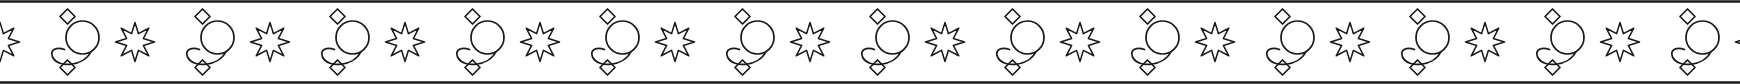
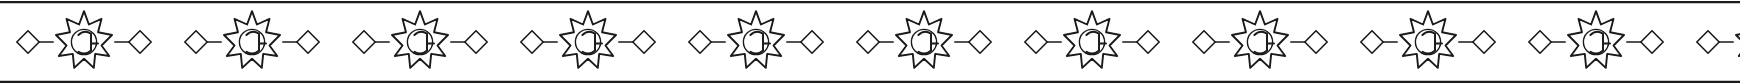
Musterauswahl: 3 Varianten durch nutzerbereitgestellte Designs ersetzen
Die zuvor selbst entworfenen Varianten "Sechseck", "Kalligrafie" und
"Verlauf" haben dem Nutzer nicht gefallen. Er hat eigene SVG-Entwürfe
geliefert - übernommen als "Halbmond", "Kalligrafie" (neu) und "Kette".

Dabei einen echten Konstruktionsfehler in einem der Entwürfe gefunden und
behoben: eine Mondsichel als zwei separate, sich überlappende volle
Kreisbögen zu zeichnen ergibt bei fill="none" nur zwei offene Ringe, keine
Sichel - eine Mondsichel muss als EIN geschlossener Pfad aus zwei
gegenläufigen Bögen gezeichnet werden (wie im zweiten, korrekt
funktionierenden Entwurf des Nutzers). Für "Kette" (basierend auf dem
fehlerhaften ersten Entwurf) dieselbe korrekte Konstruktion übernommen,
sonst aber Rauten-Kette und Akzente wie vom Nutzer entworfen beibehalten.

Die nicht mehr genutzte "Verlauf"-Architektur (nicht kachelbares,
direkt skaliertes Motiv) komplett entfernt, da alle vier Varianten jetzt
echte Kacheln sind - vereinfacht Web-/PDF-Renderer entsprechend.

Claude-Session: https://claude.ai/code/session_019vMJotETzTJGAaB8Uzutz7

diff --git a/lib/patternStrip.ts b/lib/patternStrip.ts
@@ -2,22 +2,18 @@ import { MusterVariante } from "@/lib/types";
 
 /**
  * Islamische Musterelemente: vier auswählbare, horizontal durchlaufende Zierstreifen im
- * Girih-Stil (wie klassische maurische/Alhambra-Randmuster). Drei davon ("sterne", "sechseck",
- * "kalligrafie") sind echte Kachelmuster - eine Kachel wird so oft nebeneinandergesetzt, wie in
- * die verfügbare Breite passt, ohne Verzerrung. "verlauf" ist kein Kachelmuster, sondern ein
- * einzelnes, symmetrisches Motiv, das in der Mitte am dichtesten ist und zu beiden Rändern hin
- * an Dichte verliert, bis es spitz ausläuft - skaliert direkt (ohne Wiederholung) auf die volle
- * Breite.
+ * Girih-Stil (wie klassische maurische/Alhambra-Randmuster). Jede Variante ist ein echtes
+ * Kachelmuster - eine Kachel wird so oft nebeneinandergesetzt, wie in die verfügbare Breite
+ * passt, ohne Verzerrung.
  */
 
 export interface MusterPfadGruppe {
-  /** Strichstärke im Kachel-/Motiv-Koordinatensystem. */
+  /** Strichstärke im Kachel-Koordinatensystem. */
   strichstaerke: number;
   pfade: string[];
 }
 
-export interface KachelMusterDefinition {
-  art: "kachel";
+export interface MusterDefinition {
   kachelBreite: number;
   kachelHoehe: number;
   /** Y-Koordinaten der Rahmenlinie oben/unten. */
@@ -26,26 +22,16 @@ export interface KachelMusterDefinition {
   gruppen: MusterPfadGruppe[];
 }
 
-export interface VerlaufMusterDefinition {
-  art: "verlauf";
-  breite: number;
-  hoehe: number;
-  gruppen: MusterPfadGruppe[];
-}
-
-export type MusterDefinition = KachelMusterDefinition | VerlaufMusterDefinition;
-
 export const MUSTER_LABEL: Record<MusterVariante, string> = {
   sterne: "Sterne",
-  sechseck: "Sechseck",
+  halbmond: "Halbmond",
   kalligrafie: "Kalligrafie",
-  verlauf: "Verlauf",
+  kette: "Kette",
 };
 
 export const MUSTER_DEFINITIONEN: Record<MusterVariante, MusterDefinition> = {
   // Achtzackiger Stern mit innerem Kern, ineinandergreifende Rauten-/Vieleck-Formen.
   sterne: {
-    art: "kachel",
     kachelBreite: 80,
     kachelHoehe: 56,
     rahmenY: [1, 55],
@@ -84,81 +70,84 @@ export const MUSTER_DEFINITIONEN: Record<MusterVariante, MusterDefinition> = {
       },
     ],
   },
-  // Längliche Sechseck-Kachel mit eingeschriebenem sechszackigen Stern.
-  sechseck: {
-    art: "kachel",
-    kachelBreite: 90,
-    kachelHoehe: 56,
-    rahmenY: [1, 55],
-    rahmenStrichstaerke: 1.6,
+  // Zwei Halbmonde flankieren eine Raute - der Halbmond ist als ein einziger, geschlossener
+  // Pfad aus zwei gegenläufigen Bögen gezeichnet (nicht als zwei sich überlappende Kreise -
+  // das würde bei fill="none" nur zwei offene Ringe statt einer Mondsichel ergeben).
+  halbmond: {
+    kachelBreite: 100,
+    kachelHoehe: 52,
+    rahmenY: [1.5, 50.5],
+    rahmenStrichstaerke: 1.5,
     gruppen: [
       {
-        strichstaerke: 1.15,
+        strichstaerke: 1.3,
         pfade: [
-          "M0,28 L18,10 L72,10 L90,28 L72,46 L18,46 Z",
-          "M18,5 L24,10 L18,15 L12,10 Z",
-          "M72,5 L78,10 L72,15 L66,10 Z",
-          "M18,41 L24,46 L18,51 L12,46 Z",
-          "M72,41 L78,46 L72,51 L66,46 Z",
+          "M22,14 A13,13 0 1,0 22,38 A9,9 0 1,1 22,14 Z",
+          "M78,14 A13,13 0 1,0 78,38 A9,9 0 1,1 78,14 Z",
         ],
       },
       {
-        strichstaerke: 1.0,
+        strichstaerke: 1.15,
         pfade: [
-          "M45,13 L48.5,21.94 L57.99,20.5 L52,28 L57.99,35.5 L48.5,34.06 L45,43 L41.5,34.06 L32.01,35.5 L38,28 L32.01,20.5 L41.5,21.94 Z",
-          "M45,18 L53.66,23 L53.66,33 L45,38 L36.34,33 L36.34,23 Z",
+          "M42,26 L52,15 L62,26 L52,37 Z",
+          "M52,20 L57,26 L52,32 L47,26 Z",
+          "M30,26 H42",
+          "M62,26 H70",
         ],
       },
     ],
   },
-  // Stilisiertes و (waw) im Wechsel mit einem achtzackigen Stern an der Kachelnaht.
+  // Stilisiertes arabisches و (waw) im Kern eines zwölfzackigen Sterns, flankiert von Rauten.
   kalligrafie: {
-    art: "kachel",
-    kachelBreite: 90,
-    kachelHoehe: 56,
-    rahmenY: [1, 55],
-    rahmenStrichstaerke: 1.6,
+    kachelBreite: 120,
+    kachelHoehe: 60,
+    rahmenY: [1.5, 58.5],
+    rahmenStrichstaerke: 1.55,
     gruppen: [
       {
-        strichstaerke: 1.15,
+        strichstaerke: 1.35,
         pfade: [
-          "M44,25 C44,18.9247 48.9247,14 55,14 C61.0753,14 66,18.9247 66,25 C66,31.0753 61.0753,36 55,36 C48.9247,36 44,31.0753 44,25 Z",
-          "M60.5,34.57 C56,44 39,46 35,38 C33,33 38,31 43,33",
-          "M45,6 L50,11 L45,16 L40,11 Z",
-          "M45,40 L50,45 L45,50 L40,45 Z",
+          "M60,8 L63.5,17.5 L72.5,13.5 L70,23 L80,25 L72.5,32.5 L78,40 L68,38.5 L67,48.5 L60,42 L53,48.5 L52,38.5 L42,40 L47.5,32.5 L40,25 L50,23 L47.5,13.5 L56.5,17.5 Z",
         ],
+      },
+      {
+        strichstaerke: 1.4,
+        pfade: ["M56,25 Q60,21 65,24 L65,36 Q61,40 56,37 M65,31 H70"],
       },
       {
         strichstaerke: 1.0,
-        pfade: [
-          "M0,15 L2.3,22.46 L9.19,18.81 L5.54,25.7 L13,28 L5.54,30.3 L9.19,37.19 L2.3,33.54 L0,41 L-2.3,33.54 L-9.19,37.19 L-5.54,30.3 L-13,28 L-5.54,25.7 L-9.19,18.81 L-2.3,22.46 Z",
-        ],
+        pfade: ["M51,30 A9,9 0 1,0 69,30 A9,9 0 1,0 51,30 Z"],
+      },
+      {
+        strichstaerke: 1.15,
+        pfade: ["M12,30 L20,22 L28,30 L20,38 Z", "M92,30 L100,22 L108,30 L100,38 Z"],
+      },
+      {
+        strichstaerke: 1.1,
+        pfade: ["M28,30 H38", "M82,30 H92"],
       },
     ],
   },
-  // Nicht kachelbar: ein Motiv, das in der Mitte am dichtesten ist und zu den (spitz
-  // zulaufenden) Rändern hin an Dichte verliert - skaliert direkt auf die volle Breite.
-  verlauf: {
-    art: "verlauf",
-    breite: 1000,
-    hoehe: 48,
+  // Halbmond (korrekt als ein Pfad aus zwei gegenläufigen Bögen), Rauten-Kette und kleine
+  // Rauten-Akzente, verbunden durch dünne Linien.
+  kette: {
+    kachelBreite: 100,
+    kachelHoehe: 52,
+    rahmenY: [1.5, 50.5],
+    rahmenStrichstaerke: 1.5,
     gruppen: [
       {
-        strichstaerke: 1.15,
+        strichstaerke: 1.25,
+        pfade: ["M20,15 A11,11 0 1,0 20,37 A7.5,7.5 0 1,1 20,15 Z", "M38,26 L48,16 L58,26 L48,36 Z"],
+      },
+      {
+        strichstaerke: 1.1,
         pfade: [
-          "M500,7 L503.06,16.61 L512.02,11.98 L507.39,20.94 L517,24 L507.39,27.06 L512.02,36.02 L503.06,31.39 L500,41 L496.94,31.39 L487.98,36.02 L492.61,27.06 L483,24 L492.61,20.94 L487.98,11.98 L496.94,16.61 Z",
-          "M500,10.5 L505,15.5 L500,20.5 L495,15.5 Z",
-          "M500,27.5 L505,32.5 L500,37.5 L495,32.5 Z",
-          "M465,16 L471,24 L465,32 L459,24 Z",
-          "M535,16 L541,24 L535,32 L529,24 Z",
-          "M445,16 L421.67,32 L398.33,16 L375,32",
-          "M555,16 L578.33,32 L601.67,16 L625,32",
-          "M340,11 L350,24 L340,37 L330,24 Z",
-          "M660,11 L670,24 L660,37 L650,24 Z",
-          "M250,18 L256,24 L250,30 L244,24 Z",
-          "M750,18 L756,24 L750,30 L744,24 Z",
-          "M220,20 L0,24 L220,28",
-          "M780,20 L1000,24 L780,28",
+          "M48,21 L53,26 L48,31 L43,26 Z",
+          "M68,18 L74,12 L80,18 L74,24 Z",
+          "M68,34 L74,28 L80,34 L74,40 Z",
+          "M30,26 H38",
+          "M58,26 H66",
         ],
       },
     ],

diff --git a/lib/pdf/IslamicPatternStripPdf.tsx b/lib/pdf/IslamicPatternStripPdf.tsx
@@ -4,10 +4,9 @@ import { MusterVariante } from "@/lib/types";
 import { MUSTER_DEFINITIONEN } from "@/lib/patternStrip";
 
 /**
- * react-pdf kennt kein SVG-<pattern> - Kachelmuster werden daher explizit so oft wiederholt, wie
- * in die (zur Renderzeit bekannte, feste Seitenbreite abzüglich Rand) verfügbare Breite passt,
- * und am rechten Rand über eine überflüssige Kachel plus `overflow: hidden` sauber abgeschnitten.
- * Das nicht kachelbare "verlauf"-Motiv skaliert stattdessen direkt (ohne Wiederholung).
+ * react-pdf kennt kein SVG-<pattern> - die Kachel wird daher explizit so oft wiederholt, wie in
+ * die (zur Renderzeit bekannte, feste Seitenbreite abzüglich Rand) verfügbare Breite passt, und
+ * am rechten Rand über eine überflüssige Kachel plus `overflow: hidden` sauber abgeschnitten.
  */
 export function IslamicPatternStripPdf({
   variante = "sterne",
@@ -21,23 +20,6 @@ export function IslamicPatternStripPdf({
   breite: number;
 }) {
   const definition = MUSTER_DEFINITIONEN[variante];
-
-  if (definition.art === "verlauf") {
-    return (
-      <Svg viewBox={`0 0 ${definition.breite} ${definition.hoehe}`} style={{ width: breite, height: hoehe }}>
-        <G stroke={color} fill="none" strokeLinejoin="round" strokeLinecap="round">
-          {definition.gruppen.map((gruppe, gi) => (
-            <G key={gi} strokeWidth={gruppe.strichstaerke}>
-              {gruppe.pfade.map((d, i) => (
-                <Path key={i} d={d} />
-              ))}
-            </G>
-          ))}
-        </G>
-      </Svg>
-    );
-  }
-
   const skalierung = hoehe / definition.kachelHoehe;
   const kachelBreitePt = definition.kachelBreite * skalierung;
   const anzahl = Math.ceil(breite / kachelBreitePt) + 1;
@@ -50,7 +32,7 @@ export function IslamicPatternStripPdf({
         viewBox={`0 0 ${gesamtBreite} ${definition.kachelHoehe}`}
         style={{ width: anzahl * kachelBreitePt, height: hoehe }}
       >
-        <G fill="none" stroke={color} strokeLinejoin="miter" strokeLinecap="round">
+        <G fill="none" stroke={color} strokeLinejoin="round" strokeLinecap="round">
           {Array.from({ length: anzahl }).map((_, k) => (
             <G key={k} transform={`translate(${k * definition.kachelBreite},0)`}>
               {definition.gruppen.map((gruppe, gi) => (

diff --git a/components/IslamicPatternStrip.tsx b/components/IslamicPatternStrip.tsx
@@ -17,31 +17,6 @@ export default function IslamicPatternStrip({
 }) {
   const patternId = `musterstreifen-kachel-${useId().replace(/[^a-zA-Z0-9]/g, "")}`;
   const definition = MUSTER_DEFINITIONEN[variante];
-
-  if (definition.art === "verlauf") {
-    return (
-      <svg
-        width="100%"
-        height={hoehe}
-        viewBox={`0 0 ${definition.breite} ${definition.hoehe}`}
-        preserveAspectRatio="none"
-        aria-hidden="true"
-        className={className}
-        style={{ display: "block", opacity }}
-      >
-        <g stroke={color} fill="none" strokeLinejoin="round" strokeLinecap="round">
-          {definition.gruppen.map((gruppe, gi) => (
-            <g key={gi} strokeWidth={gruppe.strichstaerke}>
-              {gruppe.pfade.map((d, i) => (
-                <path key={i} d={d} />
-              ))}
-            </g>
-          ))}
-        </g>
-      </svg>
-    );
-  }
-
   const skalierung = hoehe / definition.kachelHoehe;
   const kachelBreitePx = definition.kachelBreite * skalierung;
   const [rahmenOben, rahmenUnten] = definition.rahmenY.map((y) => y * skalierung);
@@ -64,7 +39,7 @@ export default function IslamicPatternStrip({
           height={hoehe}
           viewBox={`0 0 ${definition.kachelBreite} ${definition.kachelHoehe}`}
         >
-          <g fill="none" stroke={color} strokeLinejoin="miter" strokeLinecap="round">
+          <g fill="none" stroke={color} strokeLinejoin="round" strokeLinecap="round">
             {definition.gruppen.map((gruppe, gi) => (
               <g key={gi} strokeWidth={gruppe.strichstaerke}>
                 {gruppe.pfade.map((d, i) => (

diff --git a/lib/docx/buildWorksheetDocx.ts b/lib/docx/buildWorksheetDocx.ts
@@ -21,9 +21,9 @@ import { ICONS, IconKey } from "@/lib/icons";
 // Vektor-Ebene skaliert. Alle vier auf dasselbe Seitenverhältnis gerendert.
 const MUSTERSTREIFEN_BILD_PFADE: Record<MusterVariante, string> = {
   sterne: path.join(process.cwd(), "public/patterns/leiste-sterne.png"),
-  sechseck: path.join(process.cwd(), "public/patterns/leiste-sechseck.png"),
+  halbmond: path.join(process.cwd(), "public/patterns/leiste-halbmond.png"),
   kalligrafie: path.join(process.cwd(), "public/patterns/leiste-kalligrafie.png"),
-  verlauf: path.join(process.cwd(), "public/patterns/leiste-verlauf.png"),
+  kette: path.join(process.cwd(), "public/patterns/leiste-kette.png"),
 };
 const MUSTERSTREIFEN_BILD_SEITENVERHAELTNIS = 1740 / 84;
 

diff --git a/lib/types.ts b/lib/types.ts
@@ -65,7 +65,7 @@ export type Template = (typeof TEMPLATES)[number];
 export const FARBMODI = ["farbe", "schwarzweiss"] as const;
 export type Farbmodus = (typeof FARBMODI)[number];
 
-export const MUSTER_VARIANTEN = ["sterne", "sechseck", "kalligrafie", "verlauf"] as const;
+export const MUSTER_VARIANTEN = ["sterne", "halbmond", "kalligrafie", "kette"] as const;
 export type MusterVariante = (typeof MUSTER_VARIANTEN)[number];
 
 export const LayoutConfigSchema = z.object({

diff --git a/README.md b/README.md
@@ -71,22 +71,22 @@ Schnellauswahl, sobald „1./2. Klasse Volksschule“ als Schulstufe gewählt is
   Randmuster) unter dem Kopfbereich, mit vier auswählbaren Varianten (`lib/patternStrip.ts`,
   Auswahl im Erstellen-Formular mit Live-Vorschau je Muster):
   - **Sterne**: achtzackiger Stern mit innerem Kern, ineinandergreifende Rauten-/Vieleck-Formen.
-  - **Sechseck**: längliche Sechseck-Kacheln mit eingeschriebenem sechszackigen Stern.
-  - **Kalligrafie**: stilisiertes arabisches و (waw) im Wechsel mit einem achtzackigen Stern.
-  - **Verlauf**: kein Kachelmuster, sondern ein einzelnes Motiv, das in der Mitte am dichtesten
-    ist (achtzackiger Stern) und zu beiden Rändern hin an Dichte verliert, bis es spitz ausläuft.
+  - **Halbmond**: zwei Mondsicheln flankieren eine Raute. Die Mondsichel ist als ein einziger,
+    geschlossener Pfad aus zwei gegenläufigen Kreisbögen gezeichnet - zwei separate, sich
+    überlappende volle Kreise würden bei `fill="none"` nur als zwei offene Ringe erscheinen,
+    nicht als Sichel.
+  - **Kalligrafie**: stilisiertes arabisches و (waw) im Kern eines zwölfzackigen Sterns.
+  - **Kette**: Mondsichel, Rauten-Kette und kleine Rauten-Akzente, verbunden durch dünne Linien.
 
   Alle vier fließen unter dem Kopfbereich ganz normal mit dem Text statt frei/absolut
   positioniert zu sein - kollidieren daher nie mit Titel oder Meta-Zeilen. Eigene Vektor-Kacheln,
-  kein 1:1-Ausschnitt einer vom Nutzer bereitgestellten Referenzvorlage. Ohne Gottesname/Koran-
-  Vers (gleiche Begründung wie zuvor: Arbeitsblätter landen im Schulalltag auch mal auf dem
-  Boden). Die drei Kachelmuster wiederholen sich beliebig oft nebeneinander über die volle Breite,
-  ohne verzerrt zu werden; "Verlauf" skaliert stattdessen direkt (ohne Wiederholung) auf die
-  volle Breite. In Web als echtes SVG-`<pattern>` (kachelt automatisch auf jede Breite) bzw. als
-  direkt skaliertes SVG bei "Verlauf"; in PDF als explizit passend oft wiederholte Kachel
-  (react-pdf kennt kein `<pattern>`, die Seitenbreite ist dort aber ohnehin fix bekannt); in Word
-  als einmalig serverseitig gerenderte, auf die Satzspiegelbreite zugeschnittene PNG je Variante
-  (`public/patterns/leiste-{sterne,sechseck,kalligrafie,verlauf}.png`). Optional abschaltbar.
+  wiederholen sich beliebig oft nebeneinander über die volle Breite, ohne verzerrt zu werden.
+  Ohne Gottesname/Koran-Vers (gleiche Begründung wie zuvor: Arbeitsblätter landen im Schulalltag
+  auch mal auf dem Boden). In Web als echtes SVG-`<pattern>` (kachelt automatisch auf jede
+  Breite); in PDF als explizit passend oft wiederholte Kachel (react-pdf kennt kein `<pattern>`,
+  die Seitenbreite ist dort aber ohnehin fix bekannt); in Word als einmalig serverseitig
+  gerenderte, auf die Satzspiegelbreite zugeschnittene PNG je Variante
+  (`public/patterns/leiste-{sterne,halbmond,kalligrafie,kette}.png`). Optional abschaltbar.
 - **Druckfarbe (Farbe / Schwarz-Weiß)**: da die meisten Arbeitsblätter in der Schule ohnehin
   schwarzweiß ausgedruckt werden, lässt sich das pro Arbeitsblatt umschalten. Im Schwarz-Weiß-
   Modus wird der farbige Kopfbereich der „Modern“-Vorlage durch die schlichte, umrandete
